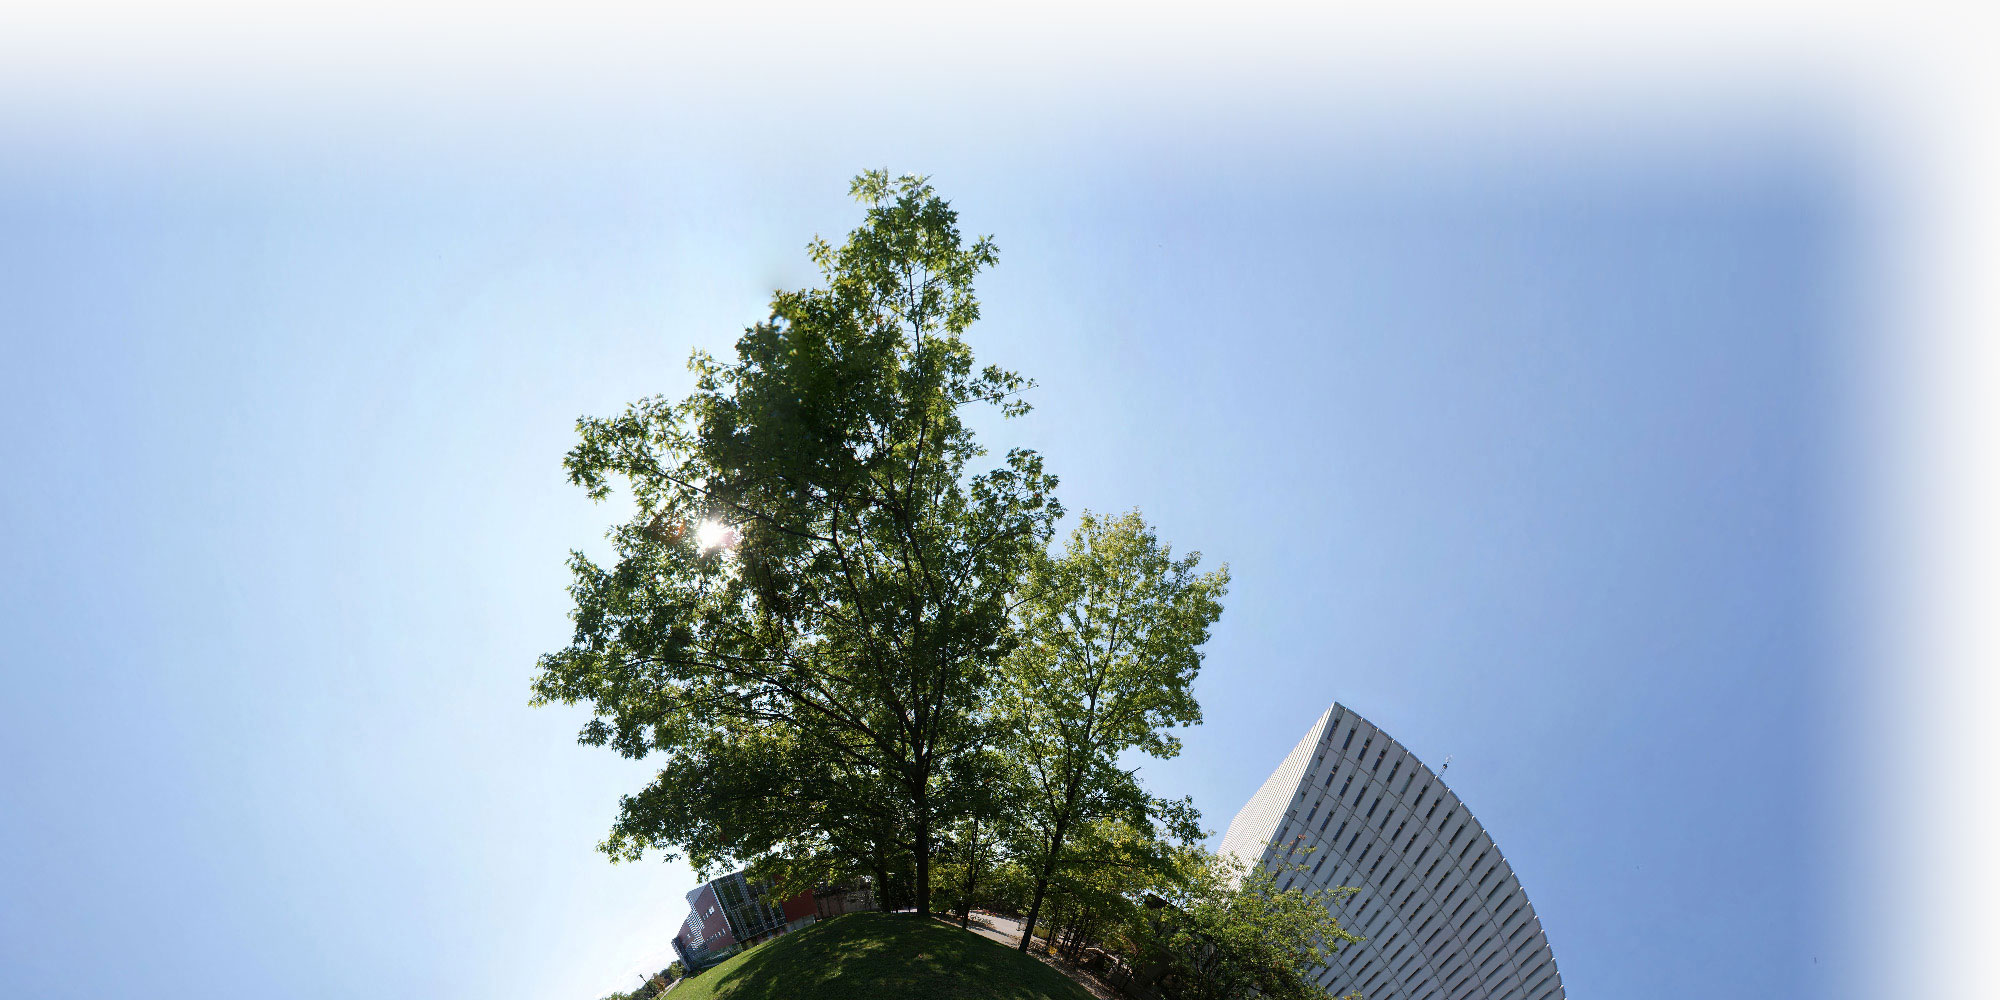
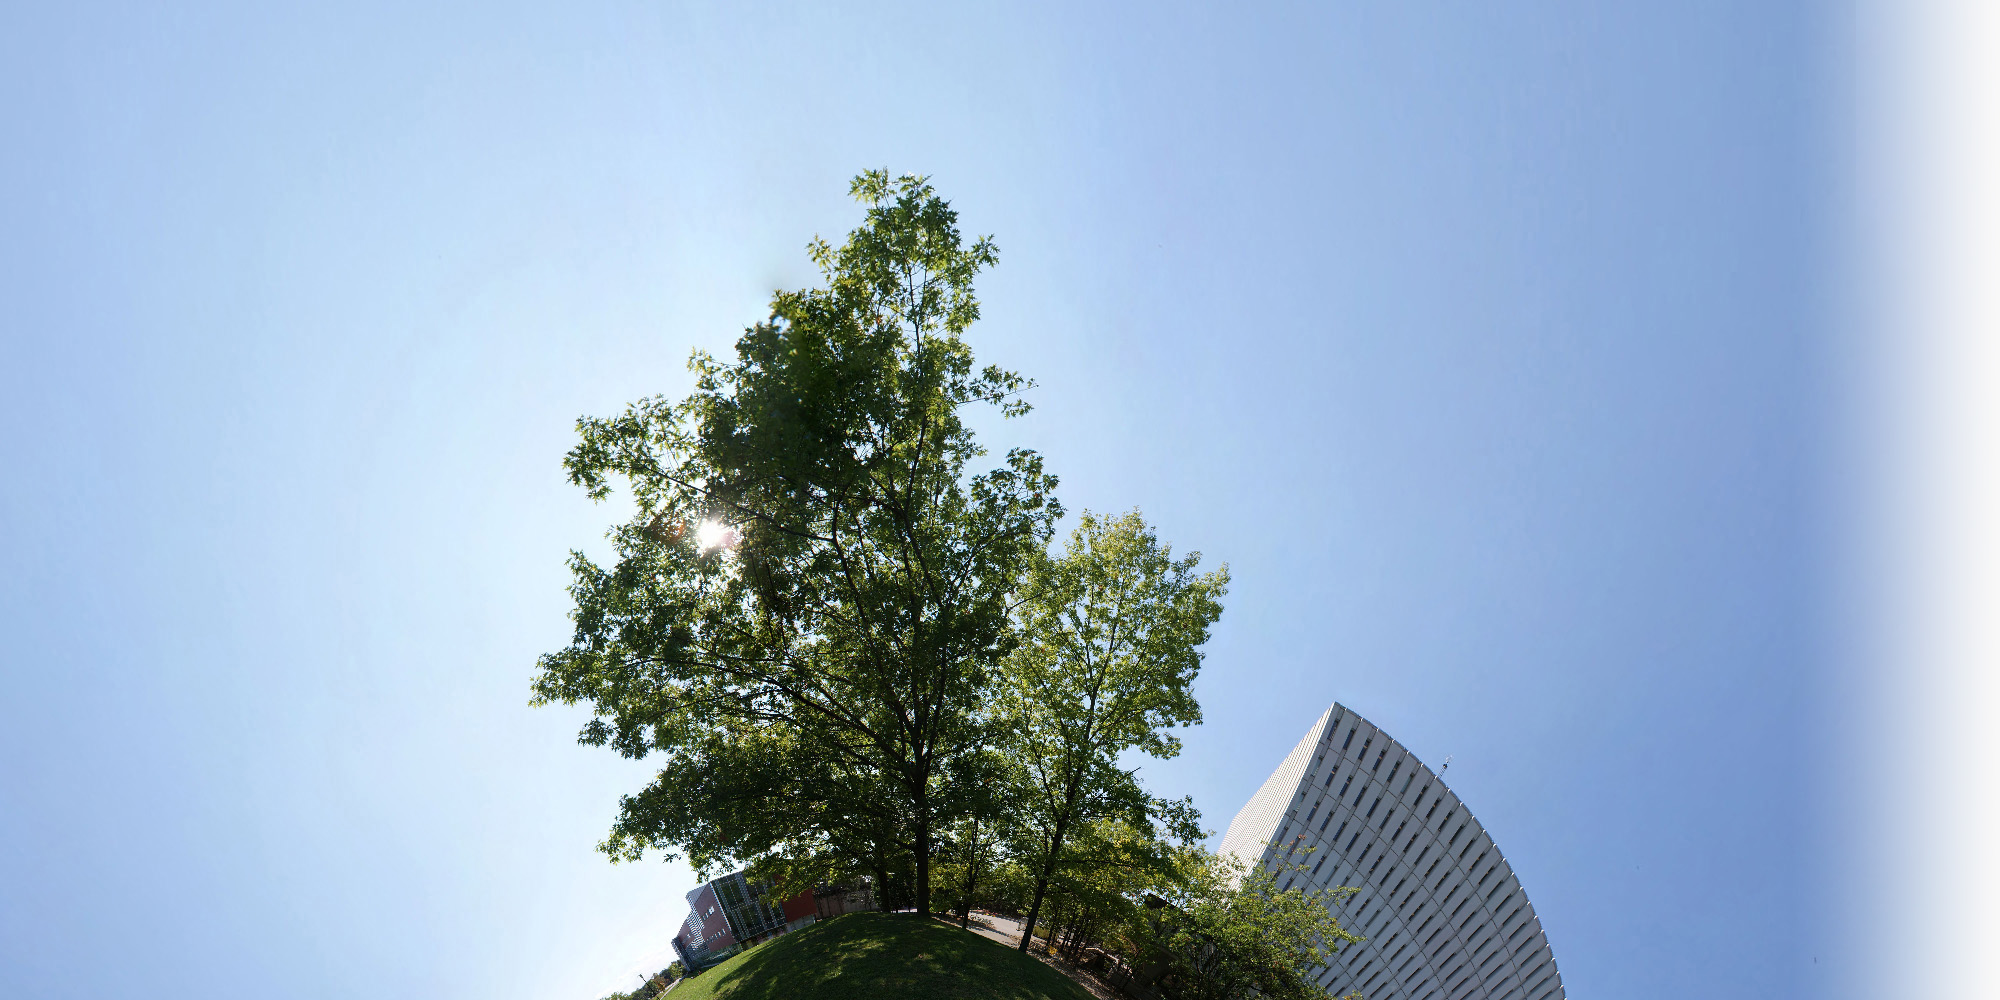
use box-shadow transition instead of gradient fade to footer

Changed region(s): [[0.0, 0.0, 0.992, 0.186], [0.341, 0.713, 0.372, 0.744]]

diff --git a/server/static/sass/_base.scss b/server/static/sass/_base.scss
@@ -181,26 +181,25 @@ a:hover {
   }
 }
 
+// NOTE: When changing this, make sure the homepage also looks OK, whose footers
+//      uses the same HTML but overrides some CSS
 footer {
-  // TODO(david): Figure out background-size: cover instead of height
-  // TODO(david): FIgure out empty gap on Sandy's computer
-  $gradient-height: 80px;
-  //margin-top: $gradient-height;
+  margin-top: 50px;
   height: 1000px;
   position: relative;
 
   &:before {
-    z-index: -1;
     content: ' ';
     position: absolute;
-    top: -$gradient-height;
-    height: $gradient-height;
+    top: -10px;
+    height: 10px;
     display: block;
     width: 100%;
-    @include background(linear-gradient(top, rgba(248, 248, 248, 0.0), rgba(248, 248, 248, 1.0)));
+    box-shadow: 0 2px 4px rgba(0, 0, 0, 0.2);
   }
 
   #footer-text {
+    // TODO(david): Fix text positioning on search page
     position: absolute;
     left: 0;
     bottom: 32px;
@@ -208,7 +207,6 @@ footer {
 
     a {
       color: rgba(40, 40, 40, 0.8);
-      // TODO(david): Dupe code with index_page.scss
       @include transition(all 0.2s ease-out);
       &:hover {
         @include transition(all 0.2s ease-out);

diff --git a/server/static/sass/index_page.scss b/server/static/sass/index_page.scss
@@ -97,11 +97,14 @@ footer {
   text-align: center;
   padding-top: 50px;
 
+  &:before {
+    display: none;
+  }
+
   #footer-text {
     position: relative;
 
     padding-top: 20px;
-    padding-bottom: 10px;
     font-size: 14px;
 
     a {
